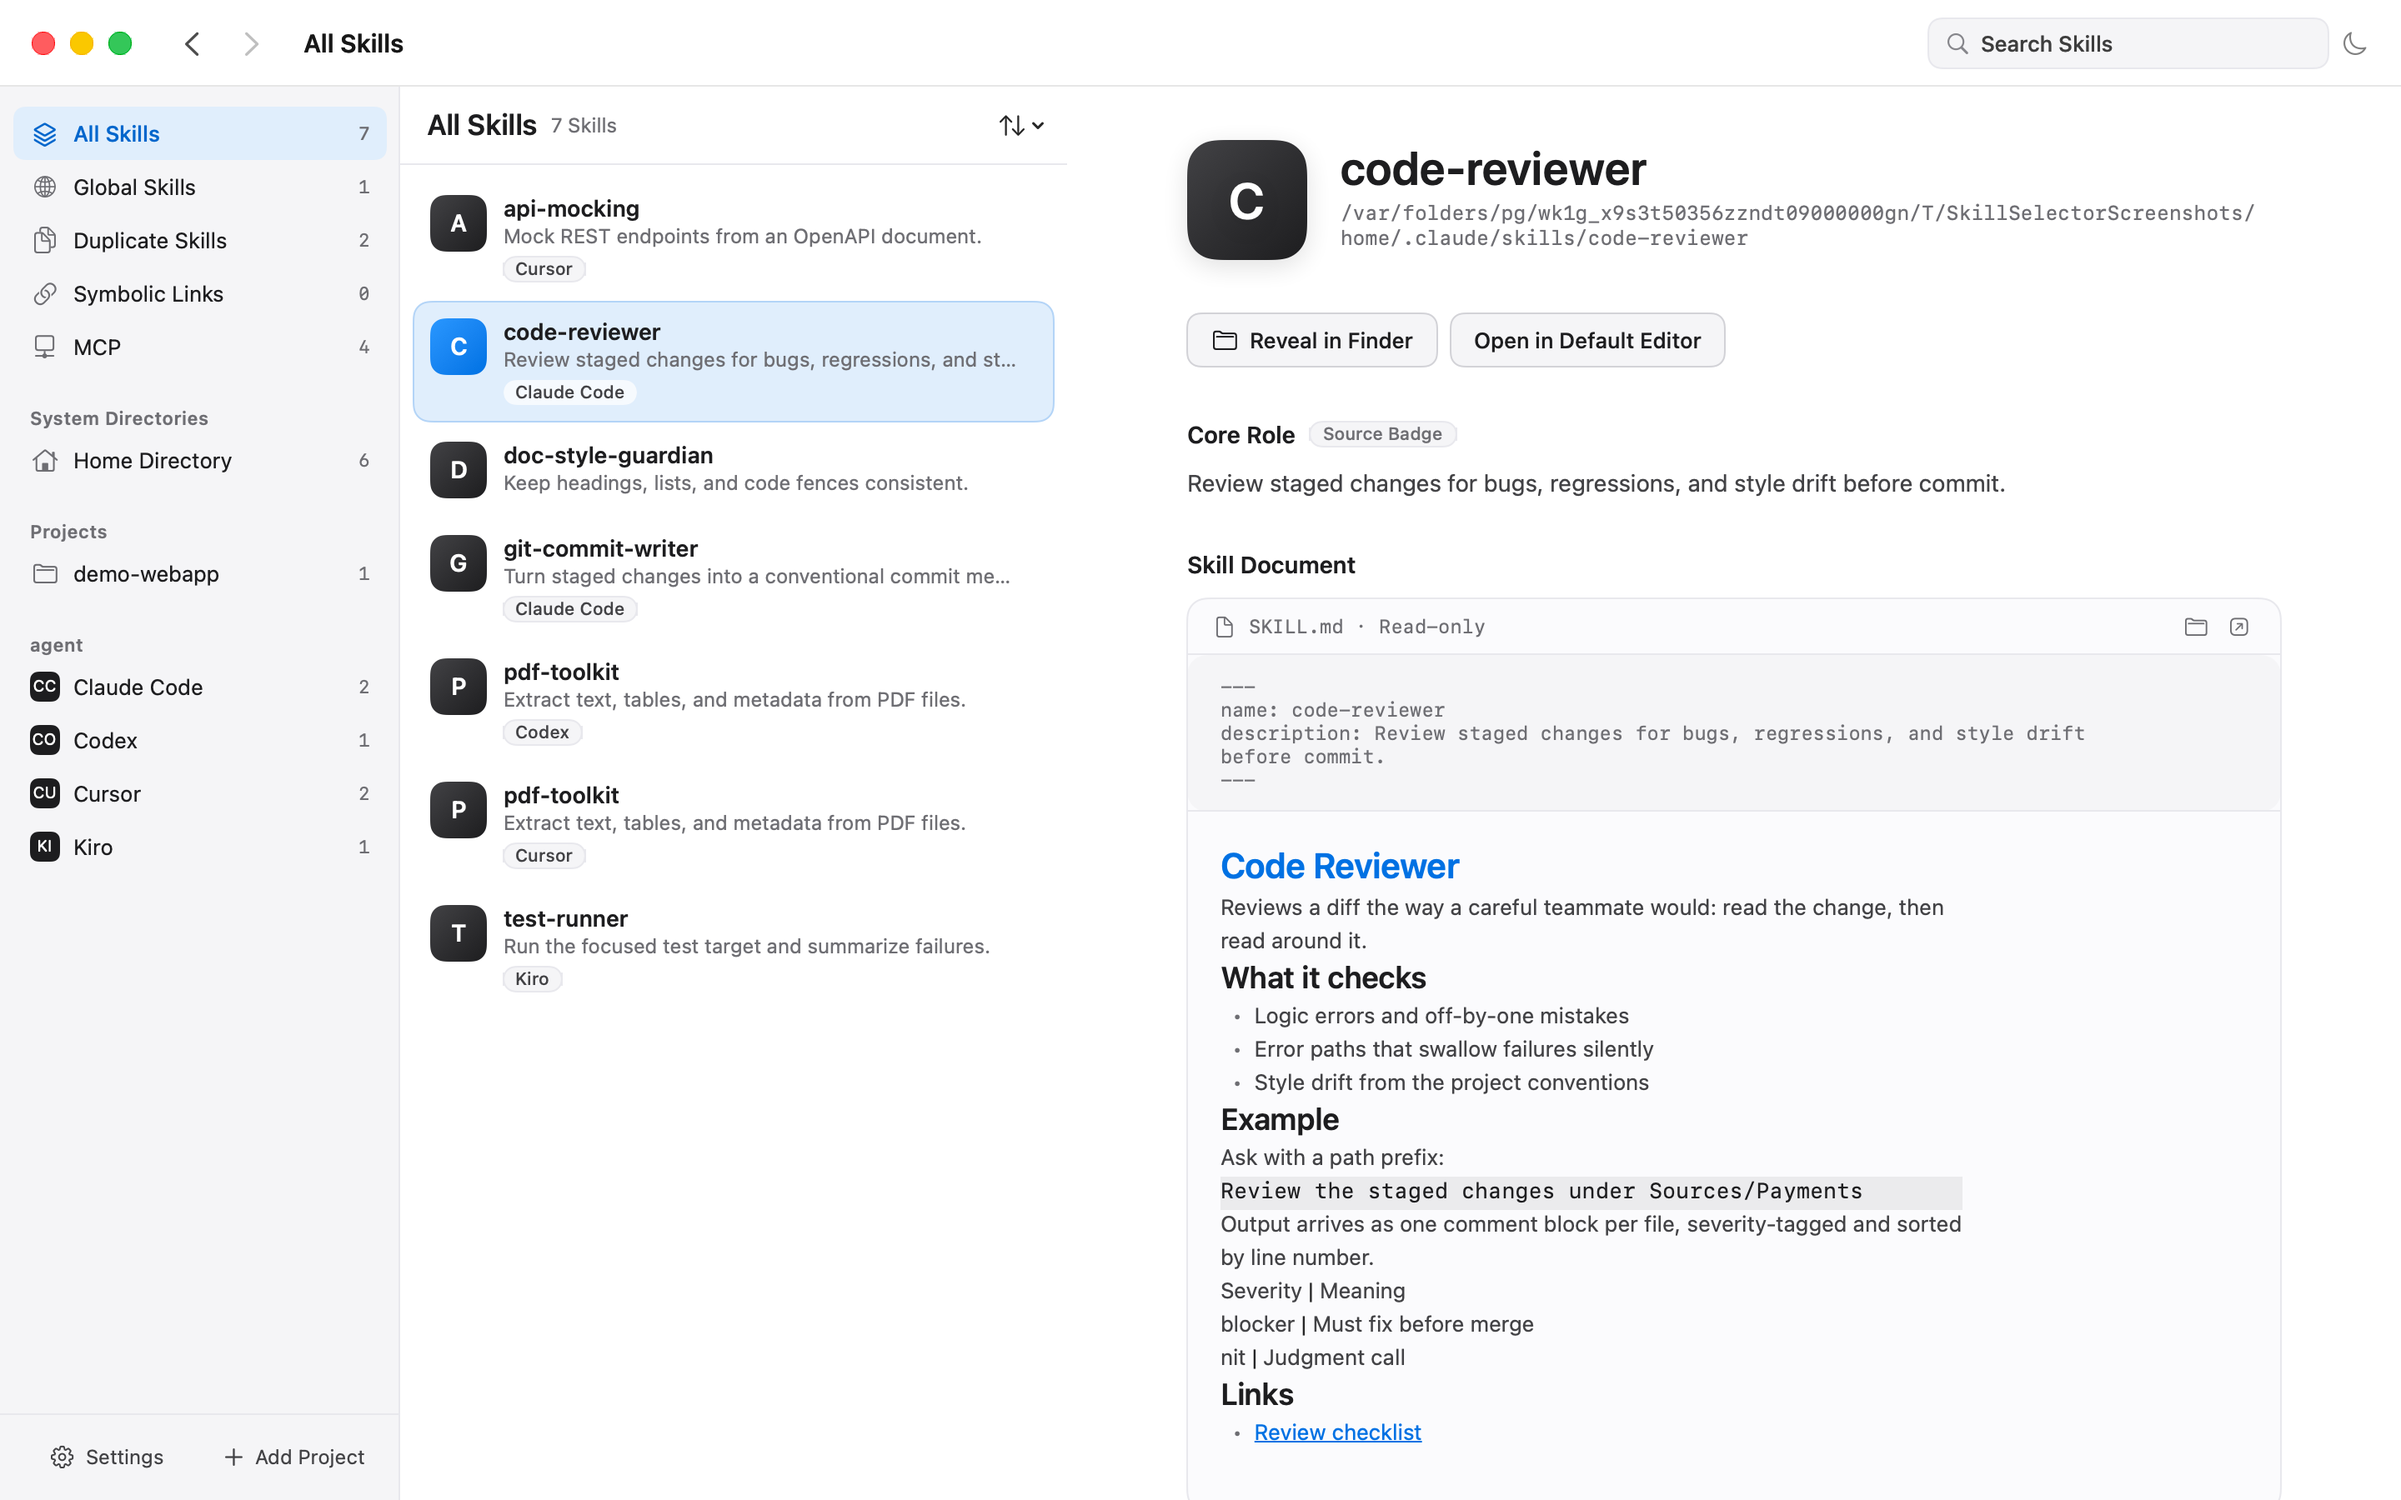
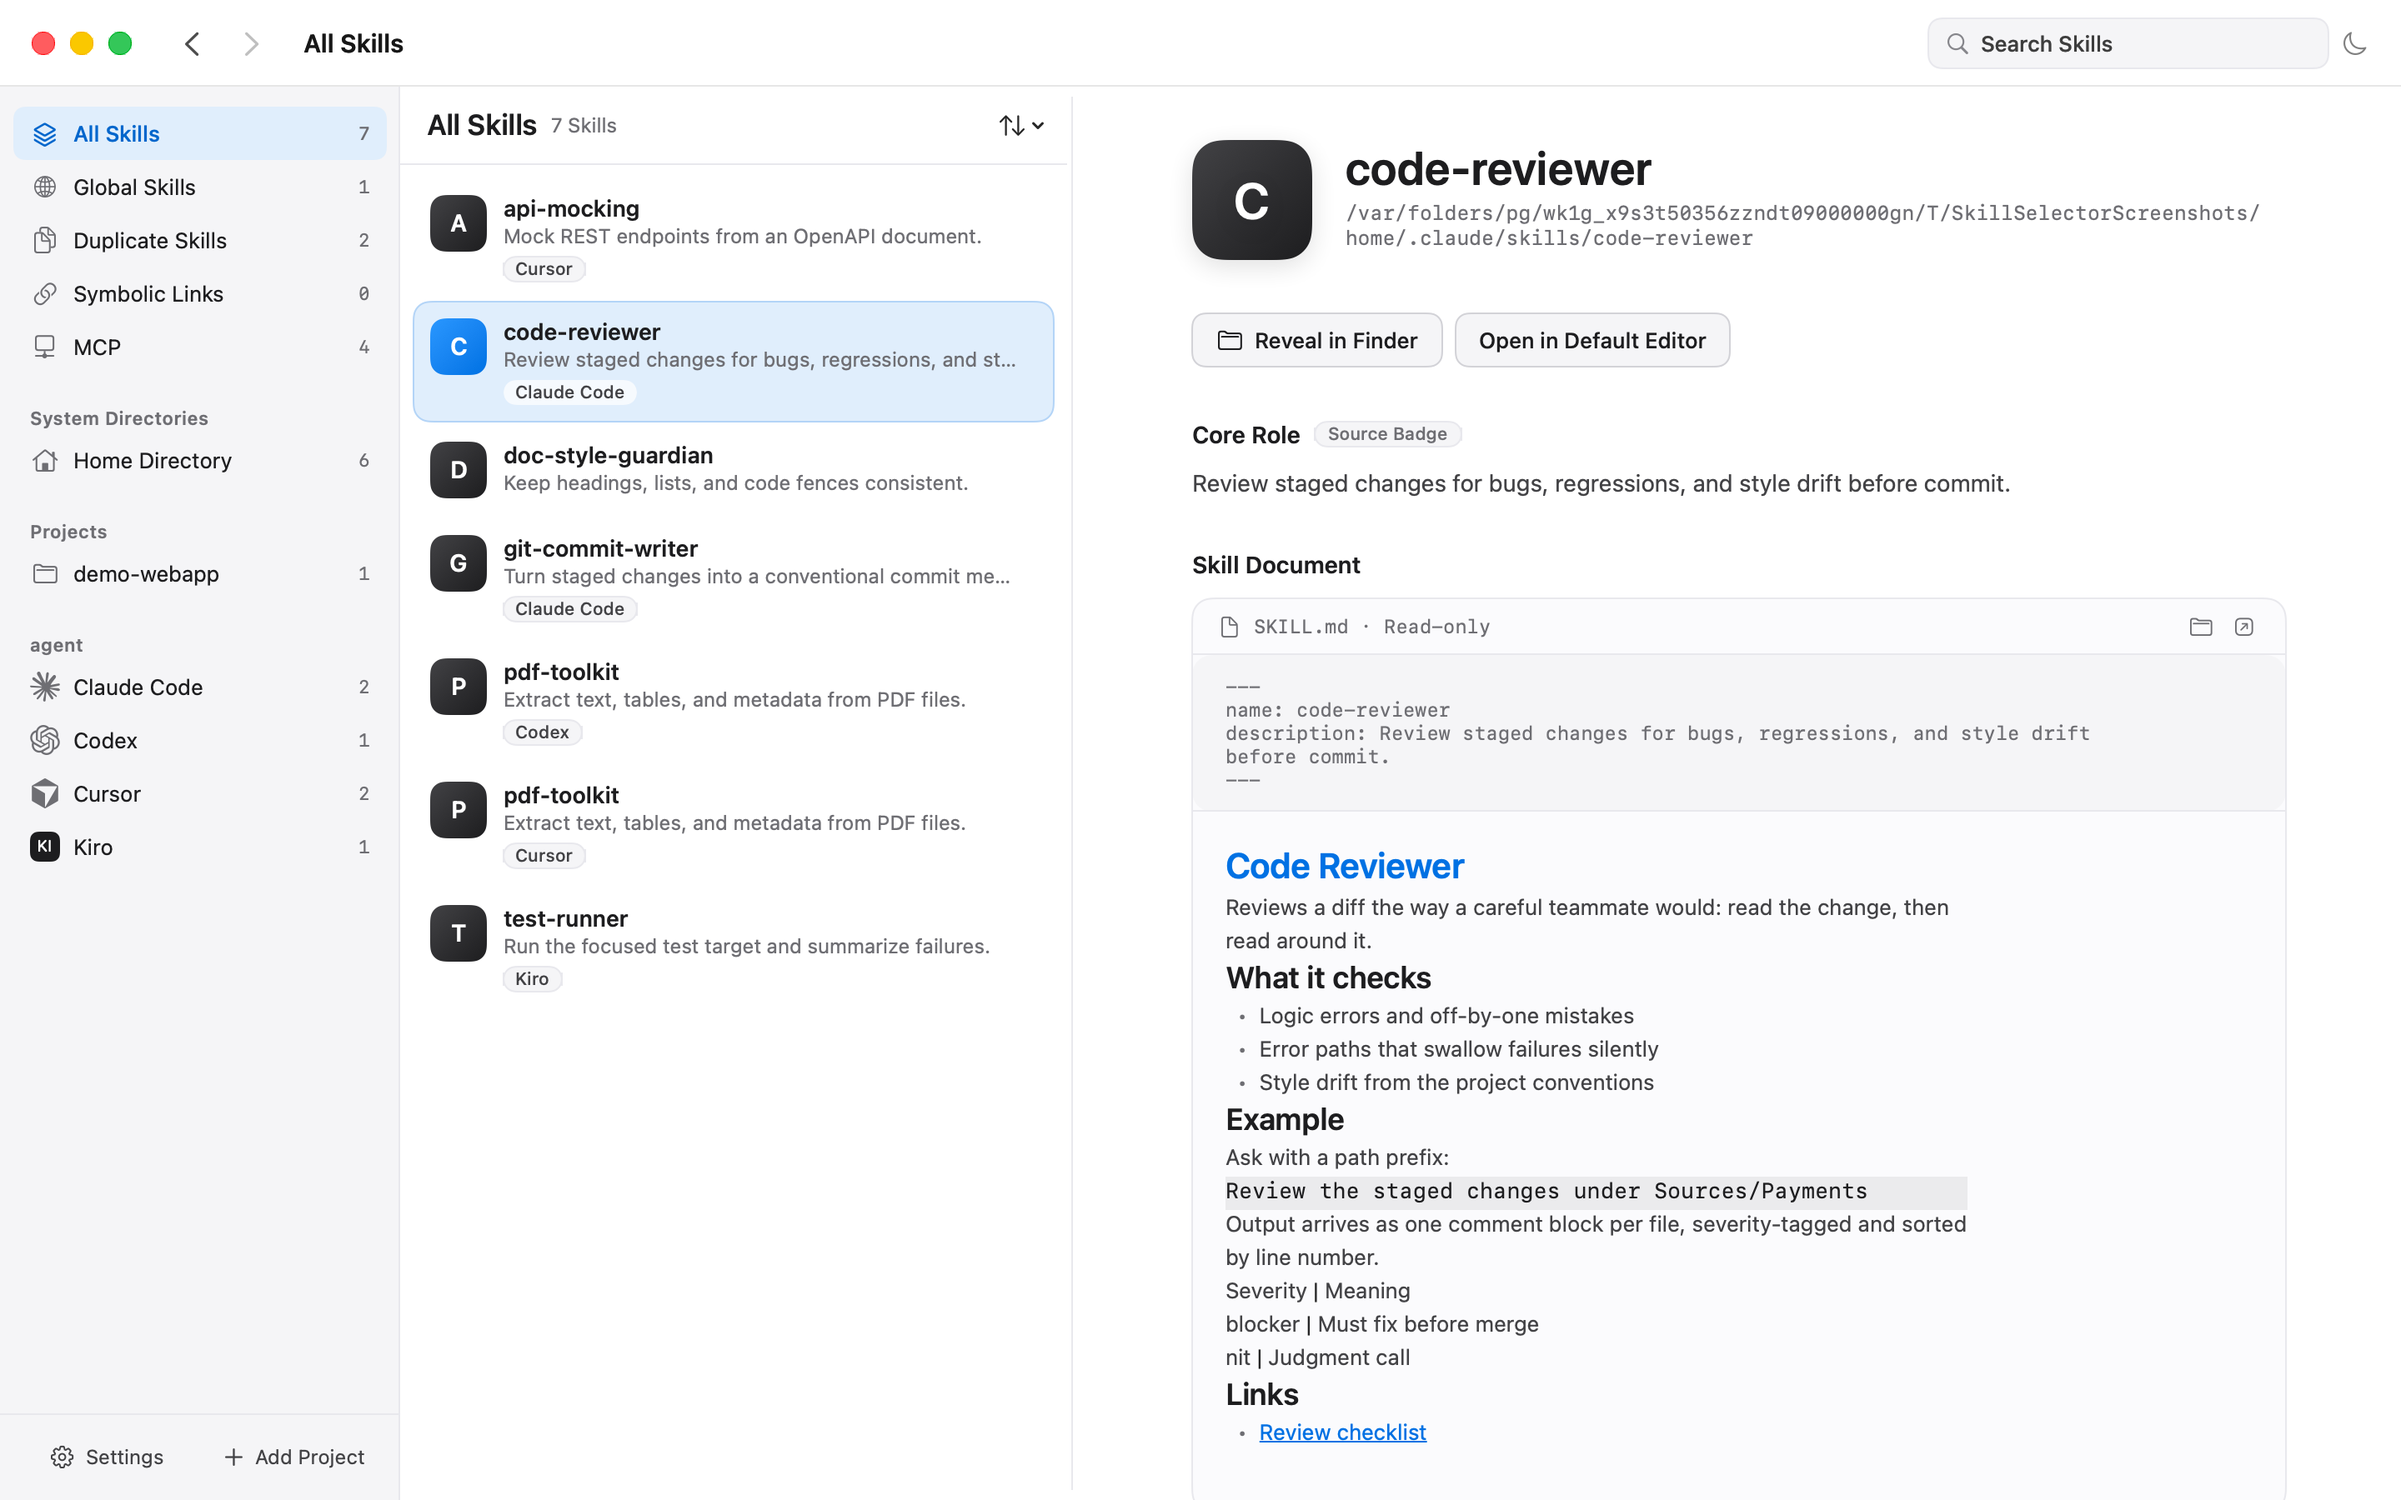
docs: refresh README screenshots and feature descriptions for 1.5.1

diff --git a/README.en.md b/README.en.md
@@ -9,7 +9,7 @@ A native macOS app for managing Agent Skills on your machine: browse, search, re
 
 ## What it does
 
-The main window is a three-column browser: a sidebar grouped by scope and Agent, a searchable, sortable list of Skills, and a detail pane showing the selected Skill's description, frontmatter, rendered Markdown document, associated Agents, and install locations. In search, a plain term fuzzy-matches the Skill name; prefix it with `name:`, `desc:`, `path:`, or `agent:` to search one field only — for example `agent:cursor path:.agents`. Back/forward (⌘[ / ⌘]) sit in the title bar; sidebar switches, detail openings and each search session record one history step.
+The main window is a three-column browser: a sidebar grouped by scope and Agent, a searchable, sortable list of Skills, and a detail pane showing the selected Skill's description, frontmatter, rendered Markdown document, associated Agents, and install locations. In search, a plain term fuzzy-matches the Skill name; prefix it with `name:`, `desc:`, `path:`, or `agent:` to search one field only — for example `agent:cursor path:.agents`. Back/forward (⌘[ / ⌘]) sit in the title bar and in the menu bar's Go menu; ⌘F focuses the search field; sidebar switches, detail openings and each search session record one history step. The middle column's right edge is draggable to resize it, and the app is single-window (no "New Window" menu item).
 
 Also:
 
@@ -18,6 +18,7 @@ Also:
 - The sidebar's "Symbolic Links" lists every link installation (source → target) and highlights broken targets
 - The sidebar's "MCP" detects MCP servers declared in each Agent's config (Codex TOML, Cursor/Claude JSON, project `.mcp.json`); "Probe" runs the real MCP initialize handshake — stdio servers are launched, judged, then reaped, http/sse get an initialize request. Read-only, on demand, never resident
 - Project / system-directory entries appear only when they hold Skills; "All Skills", "Global Skills", "Duplicates", "Symbolic Links" and "Agents" are always visible
+- Agent rows in the sidebar show the matching brand mark (Claude Code, Codex, Cursor, …) or a letter monogram when no mark ships
 - Importing a folder scans that folder only — the Skill list appears right away instead of after a wait
 - The diagnostics report can be viewed in-app (redacted exactly like the export) or exported as JSON
 - SKILL.md files stay read-only — reveal in Finder or open in your default editor; the app performs no copy, move, delete, or link operations
